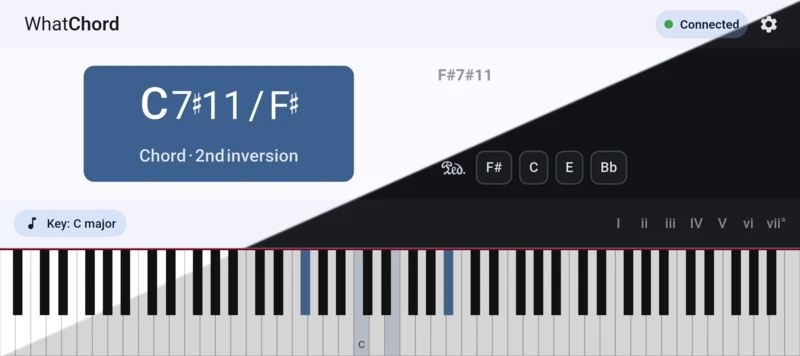
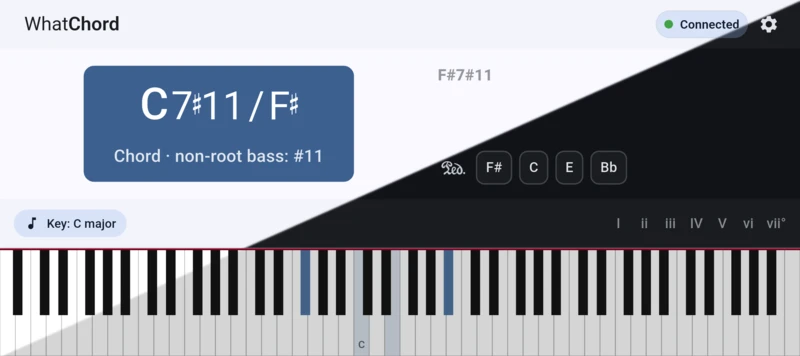
Treat only chord-tone bass as inversions; fall back to non-root bass label

diff --git a/lib/features/theory/presentation/services/inversion_formatter.dart b/lib/features/theory/presentation/services/inversion_formatter.dart
@@ -1,4 +1,5 @@
 import '../../domain/theory_domain.dart';
+import 'chord_tone_role_token_labels.dart';
 
 abstract final class InversionFormatter {
   static String? format(ChordIdentity id) {
@@ -6,19 +7,77 @@ abstract final class InversionFormatter {
 
     final bassInterval = _interval(id.bassPc, id.rootPc);
 
+    // Only treat true chord-members as inversions (root/3rd/5th/7th).
+    final isCoreMember = _coreMemberIntervals(
+      id.quality,
+    ).contains(bassInterval);
+
+    if (!isCoreMember) {
+      final role = id.toneRolesByInterval[bassInterval];
+      return role == null ? 'non-root bass' : 'non-root bass: ${role.label}';
+    }
+
+    // Bass is a core chord tone -> classical inversion naming is appropriate.
     return id.quality.isSeventhFamily
         ? _seventhInversion(bassInterval)
         : _triadInversion(bassInterval);
   }
 
+  static Set<int> _coreMemberIntervals(ChordQualityToken q) {
+    switch (q) {
+      // Triad-family
+      case ChordQualityToken.major:
+      case ChordQualityToken.major6:
+        return const {0, 4, 7}; // 1, 3, 5
+
+      case ChordQualityToken.minor:
+      case ChordQualityToken.minor6:
+        return const {0, 3, 7}; // 1, b3, 5
+
+      case ChordQualityToken.diminished:
+        return const {0, 3, 6}; // 1, b3, b5
+
+      case ChordQualityToken.augmented:
+        return const {0, 4, 8}; // 1, 3, #5
+
+      case ChordQualityToken.sus2:
+        return const {0, 2, 7}; // 1, 2, 5
+
+      case ChordQualityToken.sus4:
+        return const {0, 5, 7}; // 1, 4, 5
+
+      case ChordQualityToken.power5:
+        return const {0, 7}; // 1, 5
+
+      // Seventh-family (include the seventh as core)
+      case ChordQualityToken.dominant7:
+        return const {0, 4, 7, 10}; // 1, 3, 5, b7
+
+      case ChordQualityToken.dominant7sus4:
+        return const {0, 5, 7, 10}; // 1, 4, 5, b7
+
+      case ChordQualityToken.major7:
+        return const {0, 4, 7, 11}; // 1, 3, 5, 7
+
+      case ChordQualityToken.minor7:
+        return const {0, 3, 7, 10}; // 1, b3, 5, b7
+
+      case ChordQualityToken.minorMajor7:
+        return const {0, 3, 7, 11}; // 1, b3, 5, 7
+
+      case ChordQualityToken.halfDiminished7:
+        return const {0, 3, 6, 10}; // 1, b3, b5, b7
+
+      case ChordQualityToken.diminished7:
+        return const {0, 3, 6, 9}; // 1, b3, b5, bb7(=6)
+    }
+  }
+
   static String? _triadInversion(int bassInterval) {
     return switch (bassInterval) {
-      3 ||
-      4 ||
-      5 ||
-      2 => '1st inversion', // covers minor/major third and sus variants
-      7 || 6 || 8 => '2nd inversion', // perfect/dim/aug fifth
-      _ => null, // non-chord-tone bass or extension bass
+      3 || 4 || 5 || 2 => '1st inversion', // 3rd-ish bass incl sus
+      7 || 6 || 8 => '2nd inversion', // 5th-ish bass
+      _ => null,
     };
   }
 
@@ -26,9 +85,7 @@ abstract final class InversionFormatter {
     return switch (bassInterval) {
       3 || 4 || 5 || 2 => '1st inversion',
       7 || 6 || 8 => '2nd inversion',
-      9 ||
-      10 ||
-      11 => '3rd inversion', // dim7 uses 9; dom7 uses 10; maj7 uses 11
+      9 || 10 || 11 => '3rd inversion', // dim7=9, dom/min7=10, maj7=11
       _ => null,
     };
   }

diff --git a/lib/features/theory/presentation/services/chord_tone_role_token_labels.dart b/lib/features/theory/presentation/services/chord_tone_role_token_labels.dart
@@ -1,0 +1,59 @@
+import '../../domain/theory_domain.dart' show ChordToneRole;
+
+/// Formatting-only labels for chord tone role tokens.
+extension ChordToneRoleTokenLabels on ChordToneRole {
+  String get label {
+    switch (this) {
+      case ChordToneRole.root:
+        return '1';
+
+      case ChordToneRole.sus2:
+        return 'sus2';
+      case ChordToneRole.flat9:
+        return 'b9';
+      case ChordToneRole.nine:
+        return '9';
+      case ChordToneRole.sharp9:
+        return '#9';
+      case ChordToneRole.add9:
+        return 'add9';
+
+      case ChordToneRole.minor3:
+        return 'b3';
+      case ChordToneRole.major3:
+        return '3';
+
+      case ChordToneRole.sus4:
+        return 'sus4';
+      case ChordToneRole.eleven:
+        return '11';
+      case ChordToneRole.sharp11:
+        return '#11';
+      case ChordToneRole.add11:
+        return 'add11';
+
+      case ChordToneRole.flat5:
+        return 'b5';
+      case ChordToneRole.perfect5:
+        return '5';
+      case ChordToneRole.sharp5:
+        return '#5';
+
+      case ChordToneRole.sixth:
+        return '6';
+      case ChordToneRole.flat13:
+        return 'b13';
+      case ChordToneRole.thirteenth:
+        return '13';
+      case ChordToneRole.add13:
+        return 'add13';
+
+      case ChordToneRole.dim7:
+        return 'bb7';
+      case ChordToneRole.flat7:
+        return 'b7';
+      case ChordToneRole.major7:
+        return '7';
+    }
+  }
+}

diff --git a/lib/features/home/widgets/identity_card.dart b/lib/features/home/widgets/identity_card.dart
@@ -43,7 +43,6 @@ class IdentityCard extends StatelessWidget {
 
     final secondaryStyle = theme.textTheme.titleMedium!.copyWith(
       color: cs.onPrimary.withValues(alpha: 0.85),
-      fontFamilyFallback: const ['Bravura'],
       height: 1.1,
     );
 
